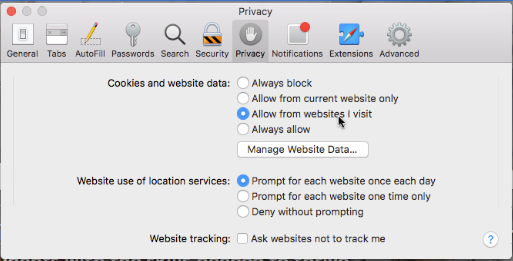
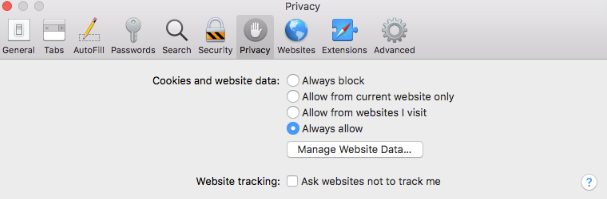
update cookie screenshot

Changed region(s): [[0.0, 0.0, 1.0, 1.0], [0.1559, 0.5427, 0.8733, 0.8442], [0.2807, 0.8744, 0.7485, 0.9347]]

diff --git a/source/docs/dashboard/account/cookies.html.md b/source/docs/dashboard/account/cookies.html.md
@@ -4,7 +4,7 @@ title: "Cookie Requirements"
 
 In order for Codio to work correctly you need to allow cookies. Check our [Privacy Policy](/legal/privacy/) for more information about cookies.
 
-In order for Codio to work correctly you need to allow cookies. The following information explains how to enable cookies for all sites. You can also enable them only for certain sites, which is not explained below.
+The following information explains how to enable cookies for all sites. You can also enable them only for certain sites, which is not explained below.
 
 #### To enable cookies in Chrome:
 
@@ -33,4 +33,5 @@ In your browser go to `Safari> Preferences`
 Select the **Privacy** tab and check **Always allow**
 <img alt="Safari Cookies" src="/img/docs/safaricookies.png" class="simple"/>
 
-*Image from Safari 10.1.2 (12603.3.8) on macOS Sierra 10.12.6*
+*Image from Safari 11.0 (12604.1.38.1.7) on macOS Sierra 10.12.6*
+

diff --git a/source/docs/misc/changelog.html.md b/source/docs/misc/changelog.html.md
@@ -13,6 +13,7 @@ We do not report small bug fixes or issues that affect individual users, who we 
 
 **September 2017**
 
+- `[I] [29th]`: Update messaging if cookies not allowed.
 - `[I] [28th]`: Reorganization of documentation structure.
 - `[F] [27th]`: Changes to [terms of use](/legal/terms)
 - `[I] [22nd]`: Improve handling for publishing new stack versions
